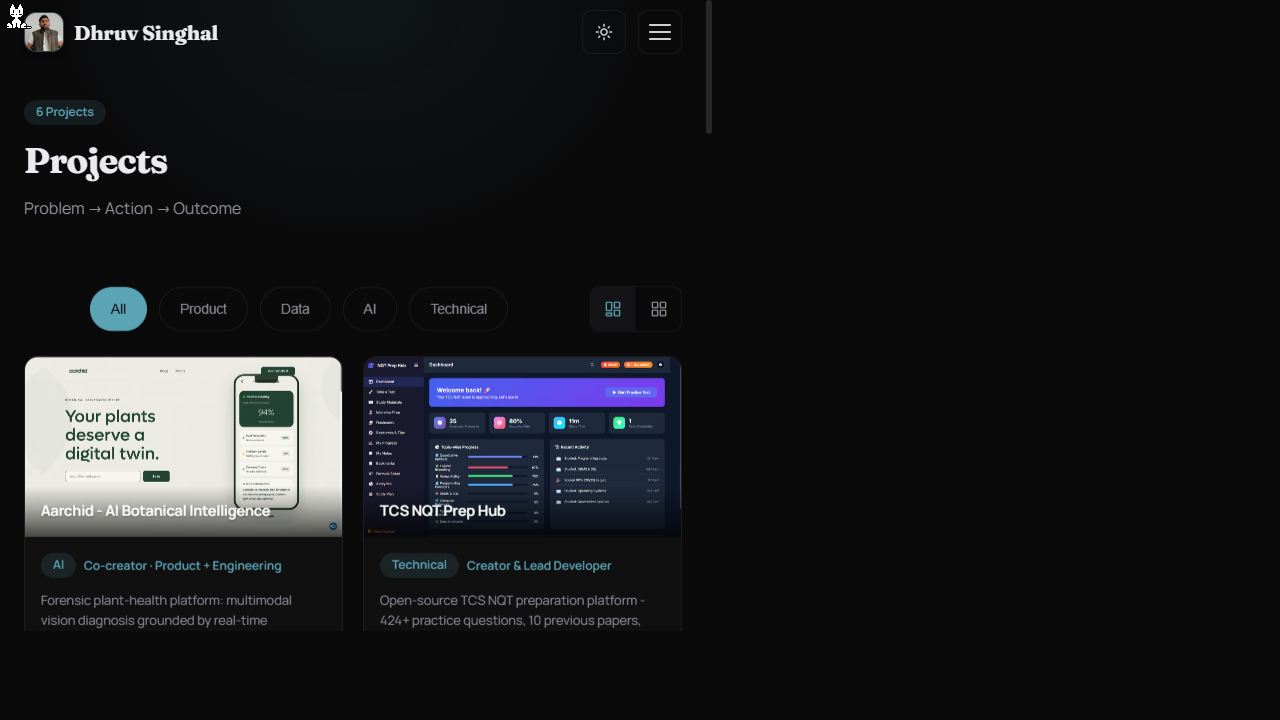
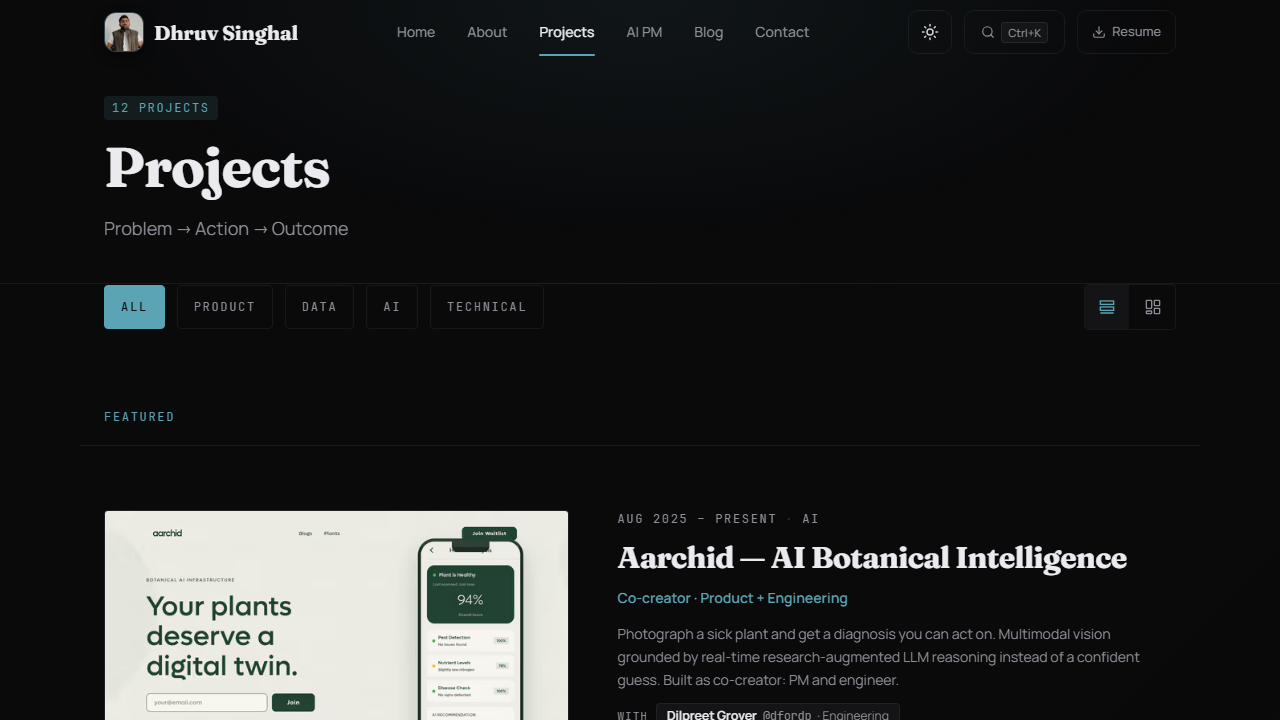
content: specific deks, honest contact header, fresh self-screenshots
Blog: four deks said nothing a hundred other posts don't. Each now leads
with something only that post contains - the screensaver line, the list
of metrics teams track before deciding on volume, the meeting where
everyone nods at "improve the user experience", the two ways he has
already got the PM-coding balance wrong. Nothing invented; every phrase
is lifted from the post it belongs to. Also drops "the debate is
tireless", which was not the word.

Contact: "Let's Talk Product" under an "Open to Opportunities" chip was
the same template vocabulary the home page just lost. The header now says
where to find him and what he is actually looking for.

Projects: every row ended in READ THE CASE STUDY in caps mono, under a
title that already links to the same place. Quieted to "Case study →" in
sentence case.

The portfolio's own screenshots showed the gradient hero and the old nav
CTA, so /projects was advertising a site that no longer exists. Re-shot
all three against the current build. Lab had "Aarkid" for Aarchid.

diff --git a/src/app/contact/page.tsx b/src/app/contact/page.tsx
@@ -65,10 +65,13 @@ export default function ContactPage() {
       <JsonLd id="contact-breadcrumb-jsonld" data={breadcrumbJsonLd} />
       <JsonLd id="contact-faq-jsonld" data={faqJsonLd} />
 
+      {/* The badge says what he is actually looking for rather than the
+          generic "Open to Opportunities" chip; the FAQ below says the same
+          thing at length. */}
       <PageHeader
-        title="Let's Talk Product"
-        subtitle="Hiring for Product, APM, or AI product roles? I would love to talk."
-        badge="Open to Opportunities"
+        title="Where to find me"
+        subtitle="Hiring for a Product, APM, or AI product role is the fastest reason to write. A question about one of these builds, or a correction, works too."
+        badge="Looking for full-time PM / APM roles"
       />
 
       {/* Contact Form */}

diff --git a/src/components/projects/ProjectCard.module.css b/src/components/projects/ProjectCard.module.css
@@ -94,15 +94,14 @@
   line-height: 1.9;
 }
 
+/* The row already links from its title, so this is a second affordance, not
+   the only one. It used to shout READ THE CASE STUDY in caps mono on every
+   row; sentence case says the same thing without the drumbeat. */
 .cta {
   display: inline-flex;
   align-items: center;
   min-height: 44px;
-  font-family: var(--font-mono);
-  font-size: var(--text-xs);
-  font-weight: 600;
-  text-transform: uppercase;
-  letter-spacing: var(--tracking-label);
+  font-size: var(--text-sm);
   color: var(--accent);
   text-decoration: none;
   transition: color var(--transition-fast);

diff --git a/src/components/projects/ProjectCard.tsx b/src/components/projects/ProjectCard.tsx
@@ -74,7 +74,7 @@ export function ProjectCard({ project }: ProjectCardProps) {
 
         {hasCaseStudy && (
           <Link href={href} className={styles.cta}>
-            Read the case study &rarr;
+            Case study &rarr;
           </Link>
         )}
       </div>
